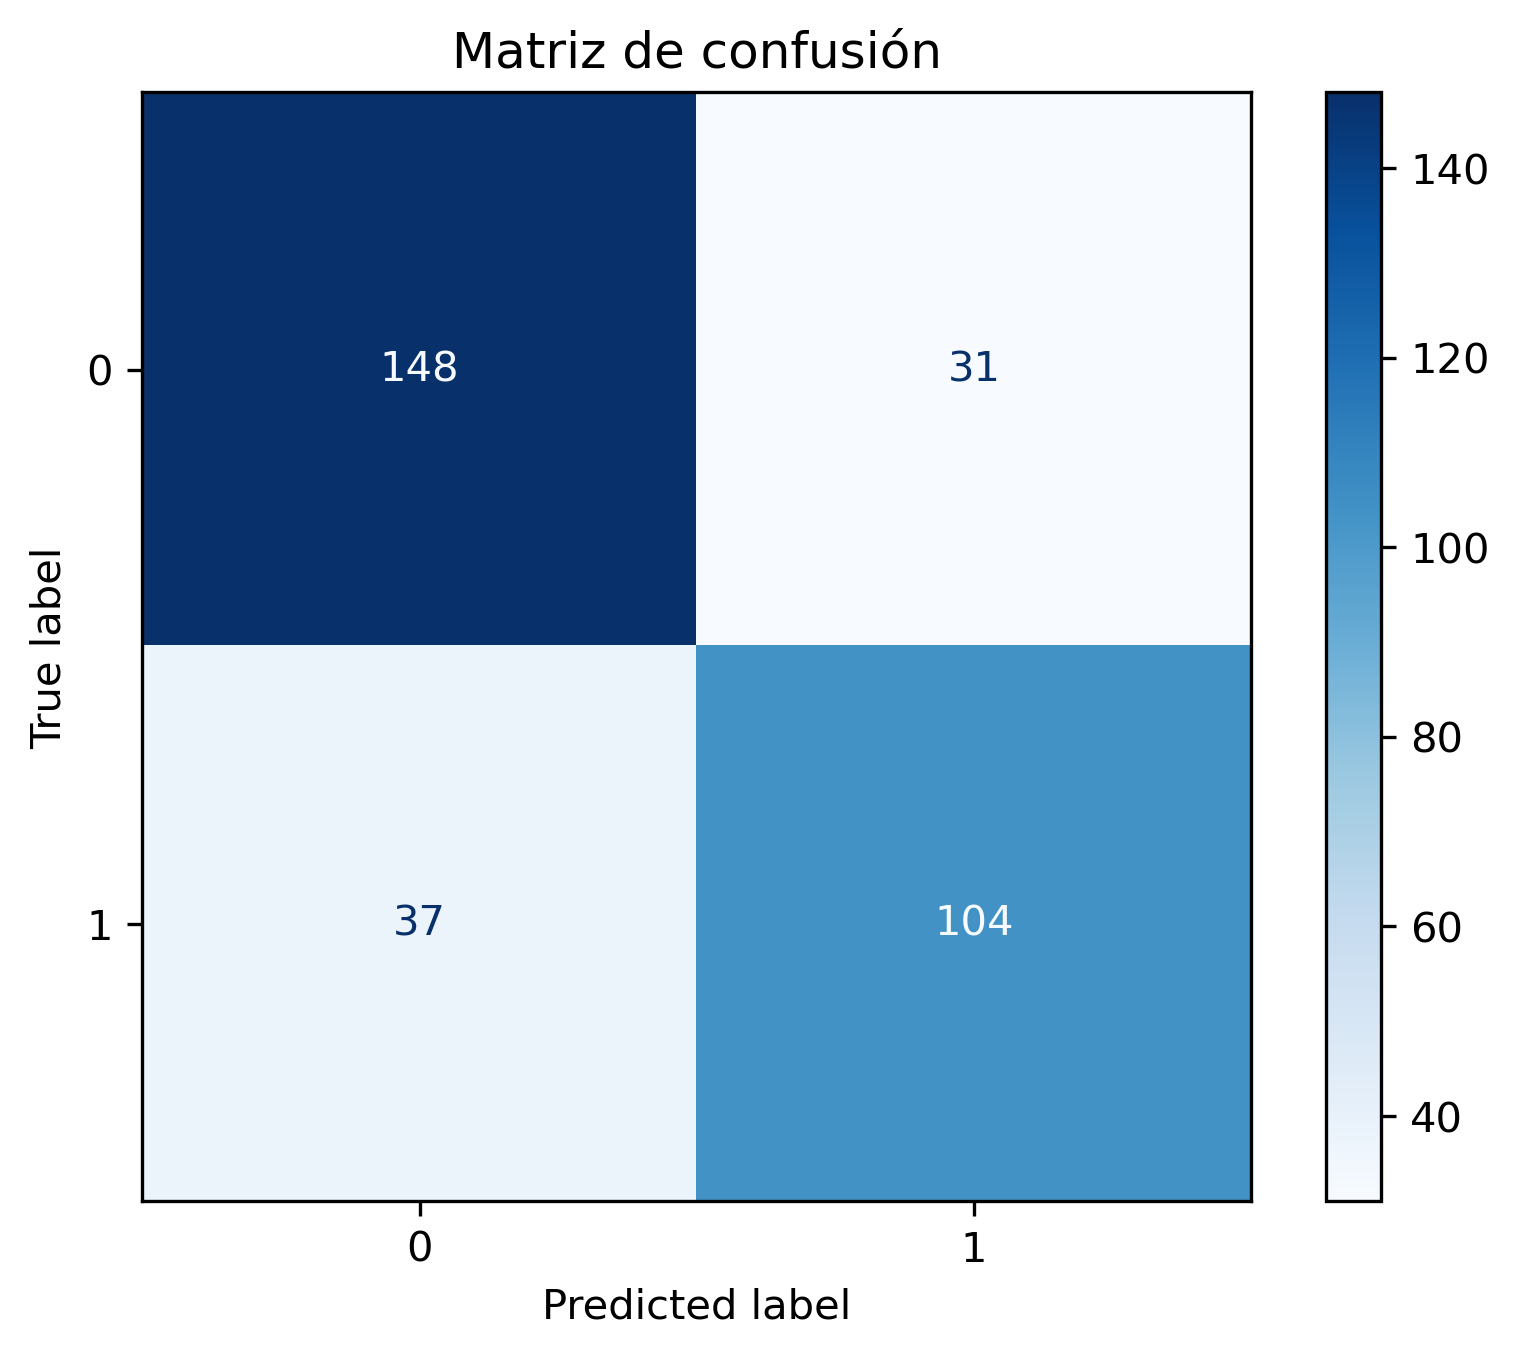
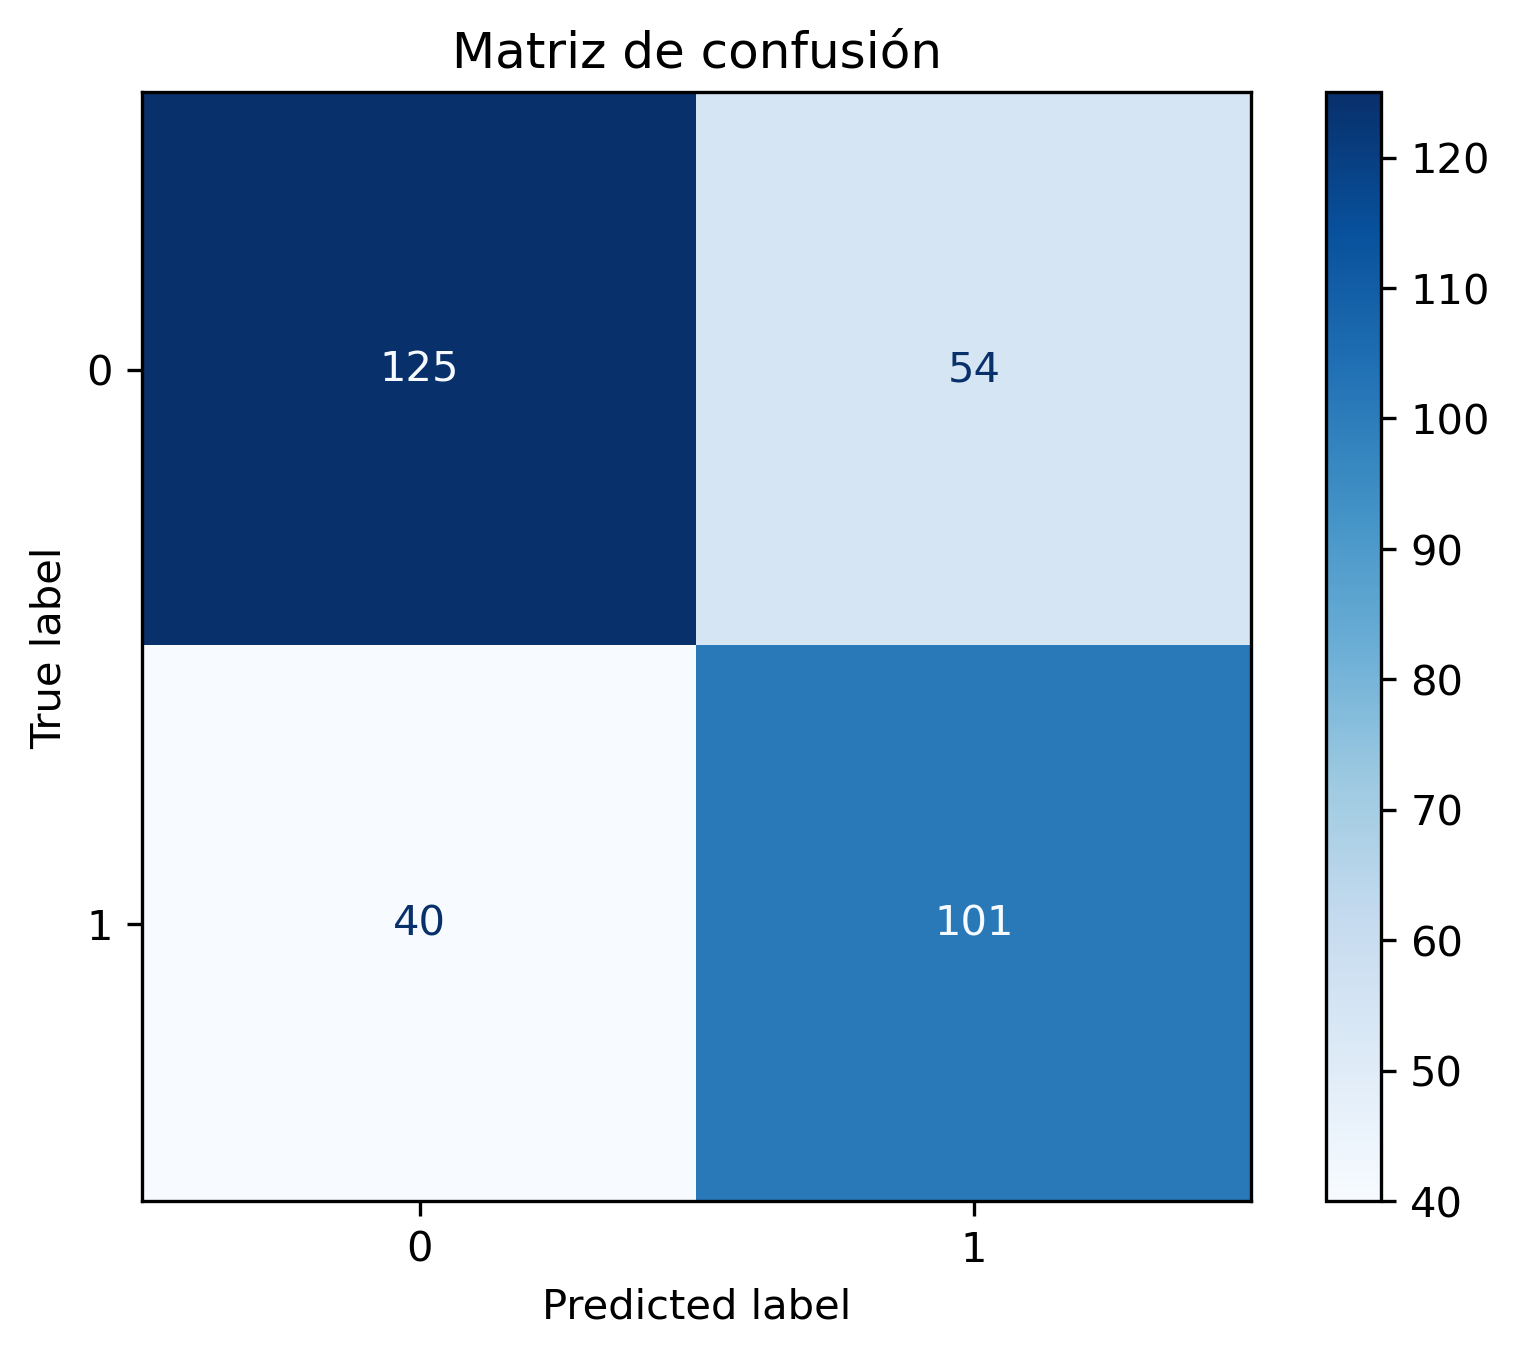
Actualiza modelos

diff --git a/core/modelos/modelo_arbol.py b/core/modelos/modelo_arbol.py
@@ -1,0 +1,102 @@
+# Librerías
+from sklearn.tree import DecisionTreeClassifier, plot_tree
+from sklearn.model_selection import cross_val_score, GridSearchCV
+from sklearn.metrics import classification_report, confusion_matrix
+import matplotlib.pyplot as plt
+import numpy as np
+
+# 9. **Árbol**
+class ArbolClasificador:
+    '''Implementacón con grilla de hiperparámetros'''
+    def __init__(self, X_train, X_test, y_train, y_test, columnas_X):
+        self.X_train=X_train
+        self.X_test=X_test
+        self.y_train=y_train
+        self.y_test=y_test
+        self.columnas_X=columnas_X
+        self.y_pred=None
+        self.tree_model=None
+        self.grid_search=None
+        self.best_model=None
+        self.best_hiperparametros=None
+
+    def definir_modelo(self, criterion=['gini'], max_depth=[5,10], min_samples_split=[10,15], min_samples_leaf=[5,10], scoring='accuracy', cv=None): # sin cv
+
+        '''Crea el modelo'''
+        self.tree_model = DecisionTreeClassifier(random_state=42) # problema desbalanceado 10% class 1
+        print("\nModelo definido\n")
+        
+        '''Define la grilla'''
+        param_grid = {
+            'criterion': criterion,                   # Función para medir la calidad de la división
+            'max_depth': max_depth,                   # Profundidad máxima del árbol
+            'min_samples_split': min_samples_split,   # Número mínimo de muestras para dividir un nodo
+            'min_samples_leaf': min_samples_leaf      # Número mínimo de muestras por hoja
+        }
+
+        self.grid_search = GridSearchCV(
+        estimator=self.tree_model, 
+        param_grid=param_grid, 
+        scoring=scoring, 
+        cv=cv,  # Validación cruzada
+        verbose=1, 
+        n_jobs=-1
+        )
+    
+    def entrenar_modelo(self):
+        '''Entrena el modelo con la grilla'''
+        if self.grid_search is None:
+            raise ValueError("Se debe definir el modelo")
+        else:
+            self.grid_search.fit(self.X_train, self.y_train)
+
+        # Mejores hiperparámetros
+        self.best_hiperparametros=self.grid_search.best_params_
+
+        print("\nMejores hiperparámetros:\n")
+        print(self.best_hiperparametros)
+
+        print("\nModelo asignado!\n")
+        self.best_model = self.grid_search.best_estimator_
+
+    def reporte(self):
+        '''Reporte métricas'''
+        self.y_pred = self.best_model.predict(self.X_test)
+        print("\nReporte de clasificación mejor modelo:\n")
+        print(classification_report(self.y_test, self.y_pred))
+        return self.y_pred
+
+    def matriz_confusion(self):
+        '''Matriz de confusión'''
+        print("\nMatriz de confusión:\n")
+        print(confusion_matrix(self.y_test, self.y_pred))
+    
+    def predecir(self, X):
+        '''Predecir con el mejor modelo entrenado'''
+        if self.best_model is None:
+            raise ValueError("El modelo no ha sido entrenado")
+        else:
+            y = self.best_model.predict(X)
+        return y
+    
+    def graficar(self):
+        fig, ax=plt.subplots(figsize=(30, 15))
+        plot_tree( self.best_model, 
+                   filled=True,  # Colorear los nodos según la clase mayoritaria
+                   feature_names=[f"Feature {i}" for i in range(self.X_train.shape[1])],  # Nombres de las características
+                   class_names=["Clase 0", "Clase 1"],  # Nombres de las clases (binaria)
+                   rounded=True,  # Bordes redondeados
+                   fontsize=8, ax=ax)
+        plt.title("Árbol de Decisión Entrenado")
+        return fig
+    def importancia(self):
+        modelo_tree = DecisionTreeClassifier(random_state=42)
+        modelo_tree.fit(self.X_train, self.y_train)
+        importances = modelo_tree.feature_importances_
+
+        # Ordenar las importancias
+        indices = np.argsort(importances)[::-1]
+
+        # Imprimir las características más importantes
+        for i in range(self.X_train.shape[1]):
+            print(f"{i+1}. {self.columnas_X[indices[i]]} - Importancia: {round(importances[indices[i]],3)}")

diff --git a/main.py b/main.py
@@ -18,6 +18,8 @@ from core.modelos.modelo_svm import SupportVectorMachineClasificador
 from core.modelos.modelo_GaussianNB import NaiveBayes
 from core.modelos.modelo_LogReg import RegresionLogistica
 from core.modelos.modelo_knn import KVecinosCercanos
+from core.modelos.modelo_arbol import ArbolClasificador
+
 from core.evaluacion import Evaluacion
 from core.modelos.error_rf import BosqueAleatorioError
 
@@ -99,6 +101,9 @@ plt.close(fig)
 X = df.drop('quality_class_Medium', axis=1)
 y = df['quality_class_Medium']
 
+# Reserva nombres de columnas
+columnas_X = X.columns.tolist()  # Si usas pandas
+
 # Escalado
 X_scale=escala_num(X)
 print(X_scale)
@@ -136,9 +141,9 @@ y_pred=modelo_rf.predecir(X_test)
 '''
 modelo_svm=SupportVectorMachineClasificador(X_train, X_test, y_train, y_test)
 
-C=[0.1, 1, 10],  # Parámetro de regularización
-kernel=['linear', 'rbf', 'poly'],  # Tipos de núcleo
-gamma=['scale', 'auto', 0.1, 1],  # Parámetro de kernel
+C=[0.1, 1, 10]  # Parámetro de regularización
+kernel=['linear', 'rbf', 'poly']  # Tipos de núcleo
+gamma=['scale', 'auto', 0.1, 1]  # Parámetro de kernel
 degree=[2, 3]  # Solo relevante para kernel 'poly'
 scoring='recall'
 cv=5
@@ -162,9 +167,9 @@ y_pred=modelo_nb.predecir(X_test)
 '''
 modelo_rl=RegresionLogistica(X_train, X_test, y_train, y_test)
 
-C=[0.001, 0.01, 0.1, 1, 10, 100],          # Regularización
-solver=['liblinear', 'lbfgs'],             # Métodos de optimización
-penalty=['l2', 'none'],                    # Tipo de regularización
+C=[0.001, 0.01, 0.1, 1, 10, 100]          # Regularización
+solver=['liblinear', 'lbfgs']             # Métodos de optimización
+penalty=['l2', 'none']                    # Tipo de regularización
 scoring='recall'
 cv=5
 
@@ -173,10 +178,11 @@ modelo_rl.entrenar_modelo()
 y_pred=modelo_rl.predecir(X_test)
 '''
 # Modelamiento KNN
+'''
 modelo_knn=KVecinosCercanos(X_train, X_test, y_train, y_test)
 
-n_neighbors=[3, 5, 7, 9, 11],                   # Número de vecinos
-weights=['uniform', 'distance'],                # Peso de los vecinos
+n_neighbors=[3, 5, 7, 9, 11]                    # Número de vecinos
+weights=['uniform', 'distance']                 # Peso de los vecinos
 metric=['euclidean', 'manhattan', 'minkowski']  # Métrica de distancia
 scoring='recall'
 cv=5
@@ -184,6 +190,27 @@ cv=5
 modelo_knn.definir_modelo(n_neighbors, weights, metric, scoring, cv)
 modelo_knn.entrenar_modelo()
 y_pred=modelo_knn.predecir(X_test)
+'''
+# Modelamiento Árbol
+
+modelo_tree=ArbolClasificador(X_train, X_test, y_train, y_test, columnas_X)
+modelo_tree.importancia()
+
+criterion=['gini', 'entropy']           # Función para medir la calidad de la división
+#max_depth=[None, 5, 10, 20]            # Profundidad máxima del árbol
+max_depth=[4, 5, 6, 7, 10, 20]          # Profundidad máxima del árbol
+min_samples_split=[10, 20, 30, 40]      # Número mínimo de muestras para dividir un nodo
+min_samples_leaf=[5, 10, 15, 20, 25]    # Número mínimo de muestras por hoja
+scoring='f1'
+cv=5
+
+modelo_tree.definir_modelo(criterion, max_depth, min_samples_split, min_samples_leaf, scoring, cv)
+modelo_tree.entrenar_modelo()
+y_pred=modelo_tree.predecir(X_test)
+
+fig=modelo_tree.graficar()
+fig.savefig(os.path.join(path_imagenes,'mejor_arbol.png'), dpi=300, bbox_inches='tight')
+plt.close(fig)
 
 # Evaluación
 evaluacion=Evaluacion(y_test, y_pred)

diff --git a/core/modelos/modelo_svm.py b/core/modelos/modelo_svm.py
@@ -17,7 +17,7 @@ class SupportVectorMachineClasificador:
         self.best_model=None
         self.best_hiperparametros=None
 
-    def definir_modelo(self, C=[0.1], kernel=['linear'], gamma=['auto'], degree=[2], scoring='accuracy', cv=None): # sin cv
+    def definir_modelo(self, C=[0.1], kernel=['linear'], gamma=['auto'], degree=[2], scoring='f1', cv=None): # sin cv
 
         '''Crea el modelo'''
         self.svm_model = SVC()
@@ -25,10 +25,10 @@ class SupportVectorMachineClasificador:
         
         '''Define la grilla'''
         param_grid = {
-            'C': [0.1, 1, 10],  # Parámetro de regularización
-            'kernel': ['linear', 'rbf', 'poly'],  # Tipos de núcleo
-            'gamma': ['scale', 'auto', 0.1, 1],  # Parámetro de kernel
-            'degree': [2, 3]  # Solo relevante para kernel 'poly'
+            'C': C,  # Parámetro de regularización
+            'kernel': kernel,  # Tipos de núcleo
+            'gamma': gamma,  # Parámetro de kernel
+            'degree': degree  # Solo relevante para kernel 'poly'
             }
         
         self.grid_search = GridSearchCV(

diff --git a/core/modelos/modelo_LogReg.py b/core/modelos/modelo_LogReg.py
@@ -26,9 +26,9 @@ class RegresionLogistica:
         '''Define la grilla'''
         # Regularicación, Métodos de optimización (lbfgs, saga, liblinear), Tipo de regularización (l1, l2, elasticnet, none )
         param_grid = [
-            {'penalty': ['l2'], 'solver': ['lbfgs', 'saga'], 'C': [0.01, 0.1, 1, 10, 100]},
-            {'penalty': ['l1'], 'solver': ['saga'], 'C': [0.01, 0.1, 1, 10]},
-            {'penalty': ['elasticnet'], 'solver': ['saga'], 'C': [0.01, 0.1, 1, 10], 'l1_ratio': [0.1, 0.5, 0.9]}
+            {'penalty': ['l2'], 'solver': ['lbfgs', 'saga'], 'C': C},
+            {'penalty': ['l1'], 'solver': ['saga'], 'C': C},
+            {'penalty': ['elasticnet'], 'solver': ['saga'], 'C': C, 'l1_ratio': [0.1, 0.5, 0.9]}
             ]
         
         self.grid_search = GridSearchCV(

diff --git a/core/modelos/modelo_knn.py b/core/modelos/modelo_knn.py
@@ -25,9 +25,9 @@ class KVecinosCercanos:
         
         '''Define la grilla'''
         param_grid = {
-            'n_neighbors': [3, 5, 7, 9, 11],                   # Número de vecinos
-            'weights': ['uniform', 'distance'],                # Peso de los vecinos
-            'metric': ['euclidean', 'manhattan', 'minkowski']  # Métrica de distancia
+            'n_neighbors': n_neighbors,   # Número de vecinos
+            'weights': weights,           # Peso de los vecinos
+            'metric': metric              # Métrica de distancia
         }
         
         self.grid_search = GridSearchCV(
